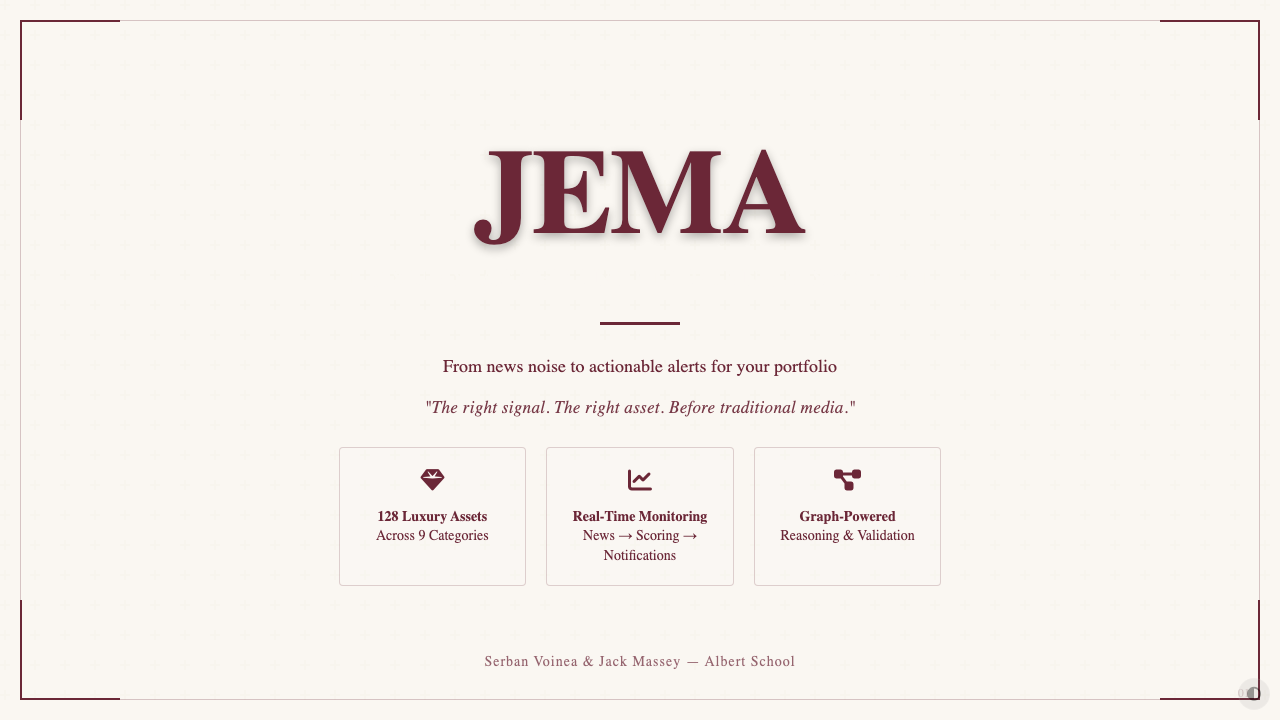
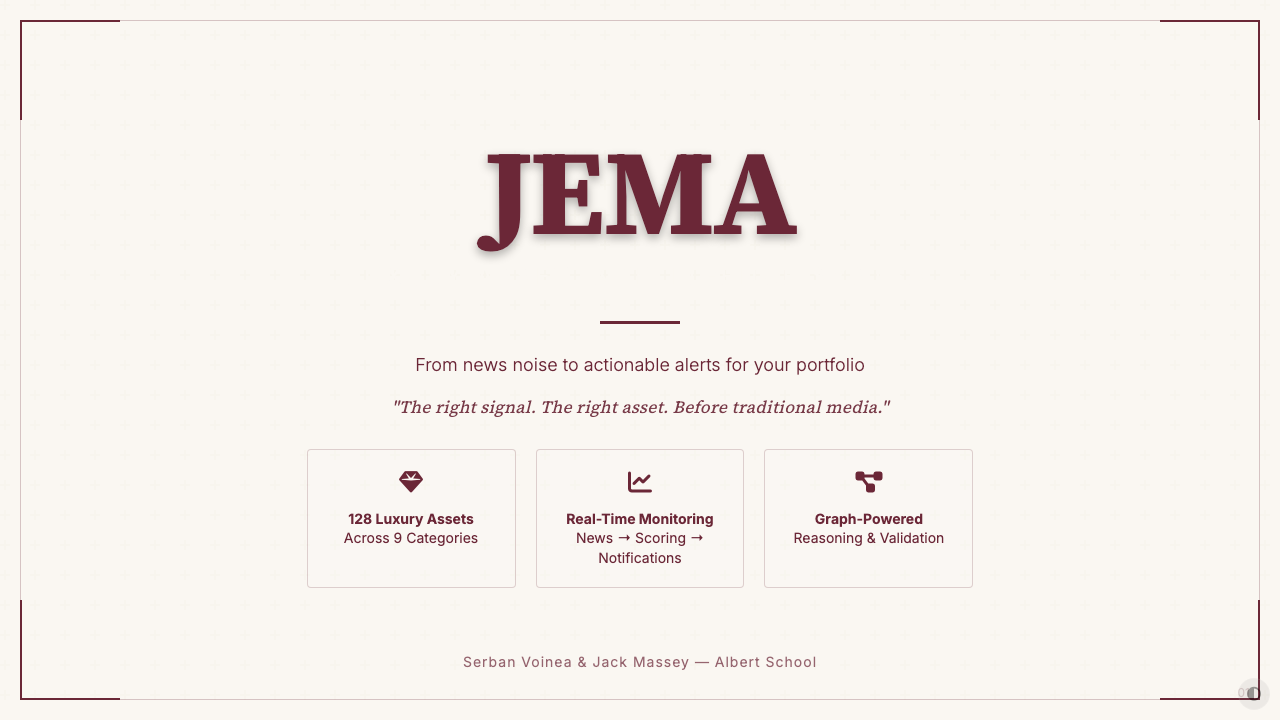
T1.10: theme test suite + LIGHT-branch typography fix
tests/test_themes.py parametrizes over the five built-in presets and
asserts: yaml loads, required CSS custom properties present in
generated CSS, build on examples/presentation.yaml emits zero
contrast warnings, and the screenshot path returned by list_themes
exists on disk. Plus a negative test that an unknown preset surfaces
all available preset names in the error.

Bug uncovered + fixed in pf/builder.py: the LIGHT-theme branch of
generate_variables_css was dropping --pf-font-heading,
--pf-font-subheading, --pf-font-body, --pf-font-mono, the secondary
accent vars, and the style preset radius/shadow vars. Only the DARK
branch emitted them. Existing dark-bg decks were unaffected, but any
light preset (editorial, plex) shipped without typography vars and
fell back to UA defaults.

Fix moves the typography/secondary/style block out of the if/else so
both branches emit it. Also threads fonts.mono from preset YAML
through (was hardcoded to 'IBM Plex Mono'). Category + semantic
colors are now in both branches.

Backwards compat verified: examples/presentation.yaml with no preset
remains byte-identical to a build with theme: {preset: default,
math: true} — diff -r returns empty.

522 tests passing (+22 from T1.10).

Follow-up not blocking: title-layout subtitle text is invisible on
light-themed backgrounds (likely CSS var resolution in title.html.j2
or components.css). Visible on regenerated editorial.png / plex.png.
File separately when prioritized.

diff --git a/tests/test_themes.py b/tests/test_themes.py
@@ -1,0 +1,106 @@
+"""T1.10 — Integration tests covering all built-in theme presets.
+
+For each preset, this suite asserts:
+  (a) the preset YAML loads (no parse errors, dict shape)
+  (b) all required CSS custom properties appear in the generated CSS
+  (c) check_contrast returns no warnings on examples/presentation.yaml
+  (d) the screenshot returned by list_themes exists on disk
+
+Plus one negative test: pf build with a non-existent preset raises a
+helpful Click message that lists the available presets.
+"""
+
+from pathlib import Path
+
+import click
+import pytest
+import yaml
+
+from pf.builder import (
+    PRESETS_DIR,
+    PresentationBuilder,
+    _list_presets,
+    _load_preset,
+)
+from pf.contrast import check_contrast
+from pf.mcp_server import list_themes
+
+REPO_ROOT = Path(__file__).resolve().parent.parent
+EXAMPLES_CONFIG = REPO_ROOT / "examples" / "presentation.yaml"
+EXAMPLES_METRICS = REPO_ROOT / "examples" / "metrics.json"
+
+REQUIRED_CSS_VARS = (
+    "--pf-primary",
+    "--pf-accent",
+    "--pf-text",
+    "--pf-contrast-text",
+    "--pf-font-heading",
+    "--pf-font-subheading",
+    "--pf-font-body",
+    "--pf-font-mono",
+)
+
+BUILTIN_PRESETS = ("default", "editorial", "terminal", "plex", "nord")
+
+
+@pytest.fixture(scope="module")
+def themes_index():
+    """Index of preset name -> entry dict from list_themes()."""
+    return {t["name"]: t for t in list_themes()}
+
+
+@pytest.mark.parametrize("preset_name", BUILTIN_PRESETS)
+class TestPreset:
+    def test_yaml_loads(self, preset_name):
+        data = _load_preset(preset_name)
+        assert isinstance(data, dict)
+        assert "primary" in data
+        assert "accent" in data
+
+    def test_required_css_vars_in_generated_css(self, preset_name):
+        b = PresentationBuilder()
+        css = b.generate_variables_css({"preset": preset_name})
+        for var in REQUIRED_CSS_VARS:
+            assert var in css, f"{preset_name}: missing CSS var {var}"
+
+    def test_contrast_clean_on_examples_deck(self, preset_name, tmp_path):
+        """Build examples deck with this preset and assert zero contrast warnings."""
+        src = yaml.safe_load(EXAMPLES_CONFIG.read_text(encoding="utf-8"))
+        src["theme"] = {"preset": preset_name, "math": True}
+        cfg_path = tmp_path / "presentation.yaml"
+        cfg_path.write_text(yaml.dump(src, sort_keys=False), encoding="utf-8")
+        builder = PresentationBuilder(
+            config_path=str(cfg_path),
+            metrics_path=str(EXAMPLES_METRICS),
+        )
+        builder.build(output_dir=str(tmp_path / "slides"))
+        assert builder._contrast_warnings == [], (
+            f"{preset_name}: contrast warnings: {builder._contrast_warnings}"
+        )
+
+    def test_screenshot_exists_on_disk(self, preset_name, themes_index):
+        entry = themes_index.get(preset_name)
+        assert entry is not None, f"{preset_name} missing from list_themes()"
+        screenshot = REPO_ROOT / entry["screenshot_path"]
+        assert screenshot.is_file(), (
+            f"{preset_name}: screenshot {entry['screenshot_path']} not on disk"
+        )
+
+
+def test_unknown_preset_raises_with_available_list():
+    """Building with a non-existent preset surfaces a helpful error."""
+    b = PresentationBuilder()
+    with pytest.raises(click.ClickException) as exc:
+        b.generate_variables_css({"preset": "definitely-not-a-real-preset"})
+    msg = exc.value.message
+    assert "definitely-not-a-real-preset" in msg
+    # All built-in presets should be listed in the available list
+    for builtin in BUILTIN_PRESETS:
+        assert builtin in msg, f"Available list missing '{builtin}'"
+
+
+def test_all_builtin_presets_discoverable():
+    """_list_presets() should enumerate every built-in name."""
+    discovered = set(_list_presets())
+    for builtin in BUILTIN_PRESETS:
+        assert builtin in discovered, f"_list_presets missing '{builtin}'"

diff --git a/pf/builder.py b/pf/builder.py
@@ -452,6 +452,7 @@ class PresentationBuilder:
         font_heading = fonts.get("heading", "Playfair Display")
         font_subheading = fonts.get("subheading", "Montserrat")
         font_body = fonts.get("body", "Lato")
+        font_mono = fonts.get("mono", "IBM Plex Mono")
 
         # Read the stock variables.css as a base, then replace the :root block
         stock = (THEME_DIR / "variables.css").read_text(encoding="utf-8")
@@ -485,7 +486,20 @@ class PresentationBuilder:
   --pf-card-bg-hover: rgba({ar}, {ag}, {ab}, 0.06);
   --pf-card-border:   rgba({ar}, {ag}, {ab}, 0.2);
   --pf-dark-bg:       rgba(0, 0, 0, 0.03);
-  --pf-darker-bg:     rgba(0, 0, 0, 0.05);"""
+  --pf-darker-bg:     rgba(0, 0, 0, 0.05);
+
+  /* Category accent colors */
+  --pf-cat-art:       #e74c3c;
+  --pf-cat-watches:   #f1c40f;
+  --pf-cat-vehicles:  #e67e22;
+  --pf-cat-marine:    #3498db;
+  --pf-cat-aviation:  #9b59b6;
+  --pf-cat-realestate:#2ecc71;
+
+  /* Semantic colors */
+  --pf-success:       #2ecc71;
+  --pf-danger:        #e74c3c;
+  --pf-info:          #3498db;"""
         else:
             custom_root = f""":root {{
   /* ── Colors (generated — DARK theme) ────────────────────── */
@@ -526,11 +540,30 @@ class PresentationBuilder:
   --pf-danger:        #e74c3c;
   --pf-info:          #3498db;
 
+  /* Category accent colors */
+  --pf-cat-art:       #e74c3c;
+  --pf-cat-watches:   #f1c40f;
+  --pf-cat-vehicles:  #e67e22;
+  --pf-cat-marine:    #3498db;
+  --pf-cat-aviation:  #9b59b6;
+  --pf-cat-realestate:#2ecc71;
+
+  /* Semantic colors */
+  --pf-success:       #2ecc71;
+  --pf-danger:        #e74c3c;
+  --pf-info:          #3498db;"""
+
+        # Typography, secondary accent, and style preset apply to both
+        # light and dark — keep them outside the if/else so the LIGHT
+        # branch doesn't drop --pf-font-* and downstream layouts fall back
+        # to unstyled defaults (regression fix surfaced by T1.10).
+        custom_root += f"""
+
   /* ── Typography (generated from presentation.yaml) ──────── */
   --pf-font-heading:    '{font_heading}', serif;
   --pf-font-subheading: '{font_subheading}', sans-serif;
   --pf-font-body:       '{font_body}', sans-serif;
-  --pf-font-mono:       'IBM Plex Mono', monospace;
+  --pf-font-mono:       '{font_mono}', monospace;
 
   /* ── Secondary Accent (generated) ──────────────────────── */
   --pf-secondary-accent:        {secondary};

diff --git a/docs/PLAN.md b/docs/PLAN.md
@@ -159,7 +159,7 @@ Same YAML + different `theme.preset` value produces visibly distinct first rende
   - **Ask human if**: never.
   - **Effort**: M
 
-- [ ] **T1.10** — Theme test suite
+- [x] **T1.10** — Theme test suite
   - **Creates/modifies**: `tests/test_themes.py` (new)
   - **Depends on**: T1.1, T1.3, T1.4, T1.5, T1.6, T1.7, T1.8, T1.9
   - **Description**: One file that for each preset (parametrized) asserts: (a) the preset YAML loads, (b) all required CSS custom properties (`--pf-primary`, `--pf-accent`, `--pf-text`, `--pf-contrast-text`, `--pf-font-heading`, `--pf-font-subheading`, `--pf-font-body`, `--pf-font-mono`) appear in the generated CSS, (c) `check_contrast` returns no warnings on `examples/presentation.yaml`, (d) `screenshot_path` from `list_themes` exists on disk. Also one negative test: `pf build` with a non-existent preset raises with a helpful message listing available presets.
